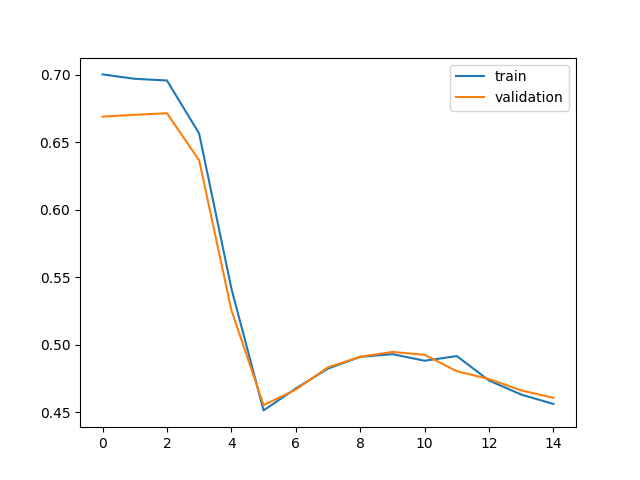
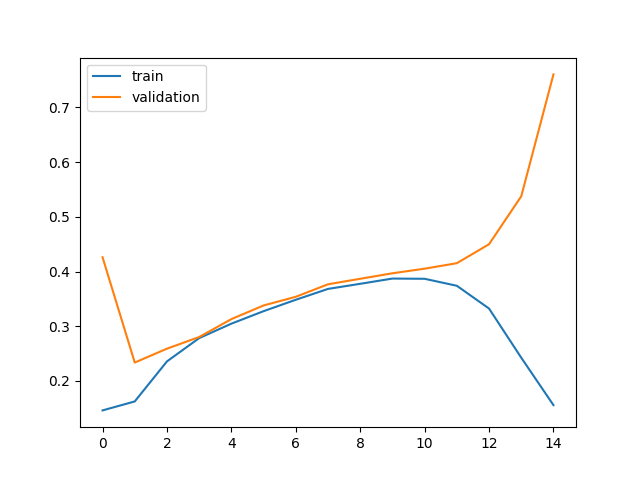
put code into separate files

diff --git a/vanilla/attempt 2+/train.py b/vanilla/attempt 2+/train.py
@@ -39,8 +39,7 @@ class HangmanNN(nn.Module):
         self.fc2 = nn.Linear(hidden_size, alphabet)
 
     def forward(self, x):
-        out = self.fc1(x)
-        out = self.relu(out)
+        out = self.relu(self.fc1(x))
         out = self.fc2(out)
         return out
 
@@ -54,44 +53,44 @@ for l in range(1, 16):
     for word in train_words_by_length[l]:
         word_original = word
         all_letters = list(set(list(word)))
-        for k in range(1, len(all_letters)+1):
-            for subset in itertools.combinations(all_letters, k):
-                for letter in subset:
-                    word = word.replace(letter, '_')
-                next_row_input = np.zeros((l * 27,))
-                next_row_output = np.zeros((26,))
-                for j in range(len(word)):
-                    if word[j] != "_":
-                        next_row_input[j * 27 + ord(word[j]) - ord('a')] = 1
-                    else:
-                        next_row_input[j * 27 + 26] = 1
-                        next_row_output[ord(word_original[j]) - ord('a')] = 1
-                X_train.append(next_row_input)
-                y_train.append(next_row_output)
+        for k in range(2):
+            size = random.randint(1, len(all_letters))
+            subset = random.sample(all_letters, size)
+            for letter in subset:
+                word = word.replace(letter, '_')
+            next_row_input = np.zeros((l * 27,))
+            next_row_output = np.zeros((26,))
+            for j in range(len(word)):
+                if word[j] != "_":
+                    next_row_input[j * 27 + ord(word[j]) - ord('a')] = 1
+                else:
+                    next_row_input[j * 27 + 26] = 1
+                    next_row_output[ord(word_original[j]) - ord('a')] = 1
+            X_train.append(next_row_input)
+            y_train.append(next_row_output)
     X_val = []
     y_val = []
     for word in valid_words_by_length[l]:
         word_original = word
         all_letters = list(set(list(word)))
-        for k in range(1, len(all_letters)+1):
-            for subset in itertools.combinations(all_letters, k):
-                for letter in subset:
-                    word = word.replace(letter, '_')
-                next_row_input = np.zeros((l * 27,))
-                next_row_output = np.zeros((26,))
-                for j in range(len(word)):
-                    if word[j] != "_":
-                        next_row_input[j * 27 + ord(word[j]) - ord('a')] = 1
-                    else:
-                        next_row_input[j * 27 + 26] = 1
-                        next_row_output[ord(word_original[j]) - ord('a')] = 1
-                X_val.append(next_row_input)
-                y_val.append(next_row_output)
+        for k in range(1):
+            size = random.randint(1, len(all_letters))
+            subset = random.sample(all_letters, size)
+            for letter in subset:
+                word = word.replace(letter, '_')
+            next_row_input = np.zeros((l * 27,))
+            next_row_output = np.zeros((26,))
+            for j in range(len(word)):
+                if word[j] != "_":
+                    next_row_input[j * 27 + ord(word[j]) - ord('a')] = 1
+                else:
+                    next_row_input[j * 27 + 26] = 1
+                    next_row_output[ord(word_original[j]) - ord('a')] = 1
+            X_val.append(next_row_input)
+            y_val.append(next_row_output)
 
     X_train = np.array(X_train)
     y_train = np.array(y_train)
-    np.random.shuffle(X_train)
-    np.random.shuffle(y_train)
     X_train = torch.tensor(X_train, dtype=torch.float32)
     y_train = torch.tensor(y_train, dtype=torch.float32)
     X_val = np.array(X_val)
@@ -105,21 +104,17 @@ for l in range(1, 16):
     optimizer = torch.optim.Adam(model.parameters(), lr=0.001, weight_decay=1e-5)
     
     model.train()
-    epochs = 1
-    batch_size = 10000
+    epochs = 100
     train_loss = 0
     for epoch in range(epochs):
-        for i in range(0, len(X_train), batch_size):
-            X_train_batch = X_train[i:min(i + batch_size, len(X_train))]
-            y_train_batch = y_train[i:min(i + batch_size, len(X_train))]
-            optimizer.zero_grad()
-            y_pred = model(X_train_batch)
-            loss = criterion(y_pred, y_train_batch)
-            loss.backward()
-            optimizer.step()
+        optimizer.zero_grad()
+        y_pred = model(X_train)
+        loss = criterion(y_pred, y_train)
+        loss.backward()
+        optimizer.step()
 
-            print(f'Length {l}, Epoch {epoch}, Batch {i // batch_size}, Loss: {loss.item()}')
-            train_loss = loss.item()
+        print(f'Length {l}, Epoch {epoch}, Loss: {loss.item()}')
+        train_loss = loss.item()
     train_losses.append(train_loss)
 
     model.eval()

diff --git a/vanilla/attempt 2+/attempt 2.py b/vanilla/attempt 2+/attempt 2.py
@@ -8,7 +8,7 @@ import random
 random.seed(0)
 
 # Import words
-url = "vanilla/attempt 2/"
+url = "vanilla/attempt 2+/"
 df_words = pd.read_csv(url + 'words.csv', keep_default_na=False)
 words = df_words['words'].tolist()
 
@@ -53,10 +53,10 @@ for l in range(1, 16):
     y_train = []
     for word in train_words_by_length[l]:
         word_copy = word
-        my_list = list(set(list(word)))
+        all_letters = list(set(list(word)))
         for k in range(2):
-            size = random.randint(1, len(my_list))
-            subset = random.sample(my_list, size)
+            size = random.randint(1, len(all_letters))
+            subset = random.sample(all_letters, size)
             for letter in subset:
                 word = word.replace(letter, '_')
             next_row_input = np.zeros((l * 27,))
@@ -73,10 +73,10 @@ for l in range(1, 16):
     y_val = []
     for word in valid_words_by_length[l]:
         word_copy = word
-        my_list = list(set(list(word)))
+        all_letters = list(set(list(word)))
         for k in range(1):
-            size = random.randint(1, len(my_list))
-            subset = random.sample(my_list, size)
+            size = random.randint(1, len(all_letters))
+            subset = random.sample(all_letters, size)
             for letter in subset:
                 word = word.replace(letter, '_')
             next_row_input = np.zeros((l * 27,))
